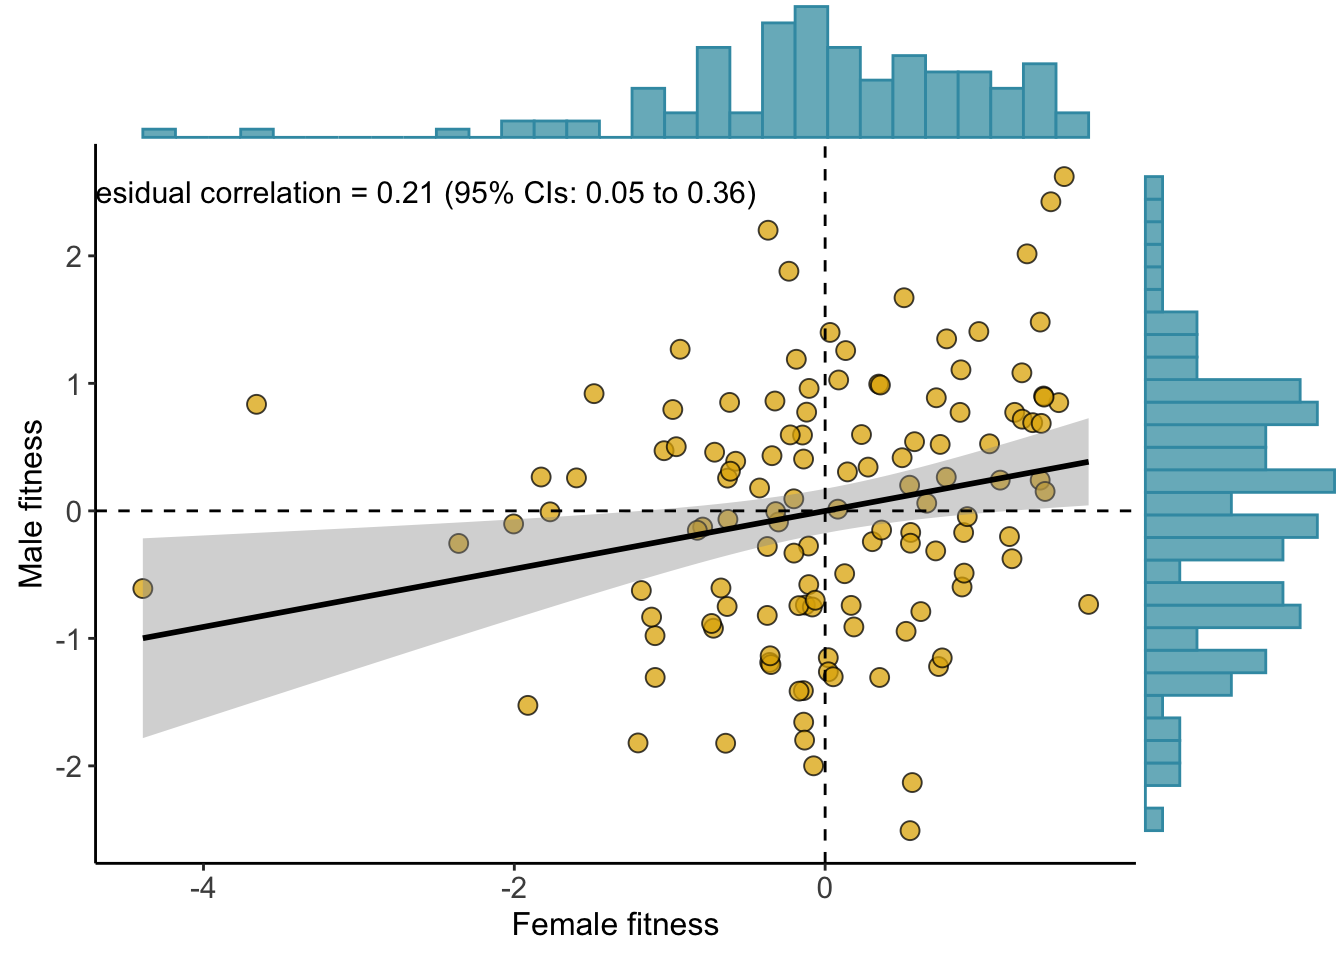
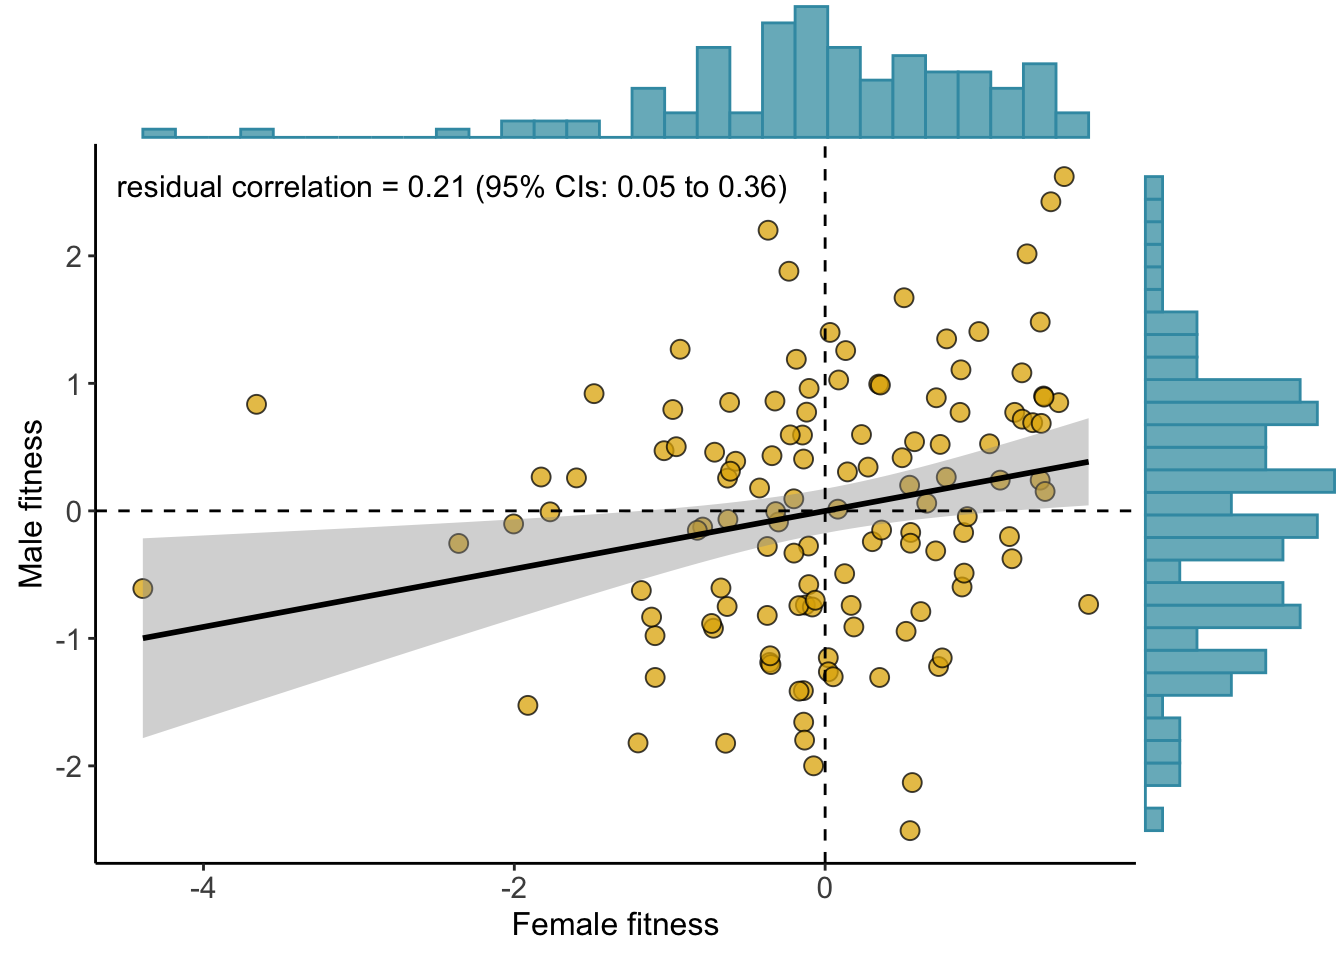
Build site.

Changed region(s): [[0.0625, 0.1875, 0.5938, 0.2188]]

diff --git a/docs/Main_analysis.html b/docs/Main_analysis.html
@@ -487,16 +487,16 @@ This reproducible <a href="http://rmarkdown.rstudio.com">R Markdown</a> analysis
 <div class="panel panel-default">
 <div class="panel-heading">
 <p class="panel-title">
-<a data-toggle="collapse" data-parent="#workflowr-checks" href="#strongRepositoryversionstrongahrefhttpsgithubcomtomkeaneyDGRPsexualconflicttree6aad8a86f4107b143e2e07bb036e5064adeca7cctargetblank6aad8a8a"> <span class="glyphicon glyphicon-ok text-success" aria-hidden="true"></span> <strong>Repository version:</strong> <a href="https://github.com/tomkeaney/DGRP_sexual_conflict/tree/6aad8a86f4107b143e2e07bb036e5064adeca7cc" target="_blank">6aad8a8</a> </a>
+<a data-toggle="collapse" data-parent="#workflowr-checks" href="#strongRepositoryversionstrongahrefhttpsgithubcomtomkeaneyDGRPsexualconflicttreee404cf9f54cc05b642050a7b0bc0070a6e55f8bbtargetblanke404cf9a"> <span class="glyphicon glyphicon-ok text-success" aria-hidden="true"></span> <strong>Repository version:</strong> <a href="https://github.com/tomkeaney/DGRP_sexual_conflict/tree/e404cf9f54cc05b642050a7b0bc0070a6e55f8bb" target="_blank">e404cf9</a> </a>
 </p>
 </div>
[2 lines of base64/hex data omitted]
 <div class="panel-body">
 <p>
 Great! You are using Git for version control. Tracking code development and connecting the code version to the results is critical for reproducibility.
 </p>
 <p>
-The results in this page were generated with repository version <a href="https://github.com/tomkeaney/DGRP_sexual_conflict/tree/6aad8a86f4107b143e2e07bb036e5064adeca7cc" target="_blank">6aad8a8</a>. See the <em>Past versions</em> tab to see a history of the changes made to the R Markdown and HTML files.
+The results in this page were generated with repository version <a href="https://github.com/tomkeaney/DGRP_sexual_conflict/tree/e404cf9f54cc05b642050a7b0bc0070a6e55f8bb" target="_blank">e404cf9</a>. See the <em>Past versions</em> tab to see a history of the changes made to the R Markdown and HTML files.
 </p>
 <p>
 Note that you need to be careful to ensure that all relevant files for the analysis have been committed to Git prior to generating the results (you can use <code>wflow_publish</code> or <code>wflow_git_commit</code>). workflowr only checks the R Markdown file, but you know if there are other scripts or data files that it depends on. Below is the status of the Git repository when the results were generated:
@@ -552,6 +552,40 @@ Message
 </tr>
 </thead>
 <tbody>
+<tr>
+<td>
+Rmd
+</td>
+<td>
+<a href="https://github.com/tomkeaney/DGRP_sexual_conflict/blob/e404cf9f54cc05b642050a7b0bc0070a6e55f8bb/analysis/Main_analysis.Rmd" target="_blank">e404cf9</a>
+</td>
+<td>
+tkeaney
+</td>
+<td>
+2021-07-23
+</td>
+<td>
+progression on selection calculations
+</td>
+</tr>
+<tr>
+<td>
+html
+</td>
+<td>
+<a href="https://rawcdn.githack.com/tomkeaney/DGRP_sexual_conflict/32f107fb9019fd1c55e06e4826fa11fed5dfc221/docs/Main_analysis.html" target="_blank">32f107f</a>
+</td>
+<td>
+tkeaney
+</td>
+<td>
+2021-07-23
+</td>
+<td>
+Build site.
+</td>
+</tr>
 <tr>
 <td>
 Rmd
@@ -876,7 +910,7 @@ rfm_fitness_plot &lt;-
   labs(x = &quot;Female fitness&quot;, y = &quot;Male fitness&quot;) +
   annotate(
     &quot;text&quot;, label = &quot;residual correlation = 0.21 (95% CIs: 0.05 to 0.36)&quot;,
-    x = -2.6, y = 2.5, size = 4, colour = &quot;black&quot;
+    x = -2.4, y = 2.55, size = 4, colour = &quot;black&quot;
   )
 
 ggMarginal(rfm_fitness_plot,
@@ -909,6 +943,17 @@ Date
 </tr>
 </thead>
 <tbody>
+<tr>
+<td>
+<a href="https://github.com/tomkeaney/DGRP_sexual_conflict/blob/32f107fb9019fd1c55e06e4826fa11fed5dfc221/docs/figure/Main_analysis.Rmd/unnamed-chunk-3-1.png" target="_blank">32f107f</a>
+</td>
+<td>
+tkeaney
+</td>
+<td>
+2021-07-23
+</td>
+</tr>
 <tr>
 <td>
 <a href="https://github.com/tomkeaney/DGRP_sexual_conflict/blob/11a83906f387d1ecbb39fc5ab60f5830bdac2d8f/docs/figure/Main_analysis.Rmd/unnamed-chunk-3-1.png" target="_blank">11a8390</a>
@@ -1035,6 +1080,43 @@ forest_plot &lt;-
 
 forest_plot</code></pre>
 <p><img src="figure/Main_analysis.Rmd/unnamed-chunk-4-1.png" width="864" style="display: block; margin: auto;" /></p>
+<p>
+<button type="button" class="btn btn-default btn-xs btn-workflowr btn-workflowr-fig" data-toggle="collapse" data-target="#fig-unnamed-chunk-4-1">
+Past versions of unnamed-chunk-4-1.png
+</button>
+</p>
+<div id="fig-unnamed-chunk-4-1" class="collapse">
+<div class="table-responsive">
+<table class="table table-condensed table-hover">
+<thead>
+<tr>
+<th>
+Version
+</th>
+<th>
+Author
+</th>
+<th>
+Date
+</th>
+</tr>
+</thead>
+<tbody>
+<tr>
+<td>
+<a href="https://github.com/tomkeaney/DGRP_sexual_conflict/blob/32f107fb9019fd1c55e06e4826fa11fed5dfc221/docs/figure/Main_analysis.Rmd/unnamed-chunk-4-1.png" target="_blank">32f107f</a>
+</td>
+<td>
+tkeaney
+</td>
+<td>
+2021-07-23
+</td>
+</tr>
+</tbody>
+</table>
+</div>
+</div>
 <p><strong>Figure X</strong>: The intersex additive genetic correlation for traits that have been measured in both sexes in &gt; 80 DGRP lines. A value of 0 indicates that there is no intersex genetic correlation, while a value of 1 means that additive genetic effects in one sex affect the other one identically. Data are means (depicted as 5% uncertainty intervals) with 66% and 95% uncertainty intervals.</p>
 <p><span class="math inline">\(~\)</span></p>
 <p>This figure is cluttered, mainly because there are so many microbiome traits. Below I attempt to visualise the data without these microbiome traits. This code is also useful because we can tag each trait by its guild.</p>
@@ -1372,6 +1454,17 @@ Date
 <tbody>
 <tr>
 <td>
+<a href="https://github.com/tomkeaney/DGRP_sexual_conflict/blob/32f107fb9019fd1c55e06e4826fa11fed5dfc221/docs/figure/Main_analysis.Rmd/unnamed-chunk-7-1.png" target="_blank">32f107f</a>
+</td>
+<td>
+tkeaney
+</td>
+<td>
+2021-07-23
+</td>
+</tr>
+<tr>
+<td>
 <a href="https://github.com/tomkeaney/DGRP_sexual_conflict/blob/11a83906f387d1ecbb39fc5ab60f5830bdac2d8f/docs/figure/Main_analysis.Rmd/unnamed-chunk-7-1.png" target="_blank">11a8390</a>
 </td>
 <td>
@@ -1454,6 +1547,43 @@ Selection_index_forest_plot &lt;-
 
 Selection_index_forest_plot</code></pre>
 <p><img src="figure/Main_analysis.Rmd/unnamed-chunk-8-1.png" width="576" style="display: block; margin: auto;" /></p>
+<p>
+<button type="button" class="btn btn-default btn-xs btn-workflowr btn-workflowr-fig" data-toggle="collapse" data-target="#fig-unnamed-chunk-8-1">
+Past versions of unnamed-chunk-8-1.png
+</button>
+</p>
+<div id="fig-unnamed-chunk-8-1" class="collapse">
+<div class="table-responsive">
+<table class="table table-condensed table-hover">
+<thead>
+<tr>
+<th>
+Version
+</th>
+<th>
+Author
+</th>
+<th>
+Date
+</th>
+</tr>
+</thead>
+<tbody>
+<tr>
+<td>
+<a href="https://github.com/tomkeaney/DGRP_sexual_conflict/blob/32f107fb9019fd1c55e06e4826fa11fed5dfc221/docs/figure/Main_analysis.Rmd/unnamed-chunk-8-1.png" target="_blank">32f107f</a>
+</td>
+<td>
+tkeaney
+</td>
+<td>
+2021-07-23
+</td>
+</tr>
+</tbody>
+</table>
+</div>
+</div>
 <pre class="r"><code># Here&#39;s a table showing the correlations
 
 S_complete %&gt;% 
@@ -1625,6 +1755,43 @@ early.female.20 &lt;-
   (early.female.11 | early.female.12 | early.female.13| early.female.14| early.female.15) /
   (early.female.16 | early.female.17 | early.female.18 | early.female.19 | early.female.20)</code></pre>
 <p><img src="figure/Main_analysis.Rmd/unnamed-chunk-12-1.png" width="1440" style="display: block; margin: auto;" /></p>
+<p>
+<button type="button" class="btn btn-default btn-xs btn-workflowr btn-workflowr-fig" data-toggle="collapse" data-target="#fig-unnamed-chunk-12-1">
+Past versions of unnamed-chunk-12-1.png
+</button>
+</p>
+<div id="fig-unnamed-chunk-12-1" class="collapse">
+<div class="table-responsive">
+<table class="table table-condensed table-hover">
+<thead>
+<tr>
+<th>
+Version
+</th>
+<th>
+Author
+</th>
+<th>
+Date
+</th>
+</tr>
+</thead>
+<tbody>
+<tr>
+<td>
+<a href="https://github.com/tomkeaney/DGRP_sexual_conflict/blob/32f107fb9019fd1c55e06e4826fa11fed5dfc221/docs/figure/Main_analysis.Rmd/unnamed-chunk-12-1.png" target="_blank">32f107f</a>
+</td>
+<td>
+tkeaney
+</td>
+<td>
+2021-07-23
+</td>
+</tr>
+</tbody>
+</table>
+</div>
+</div>
 <p><strong>Figure 2</strong>: The 10 phenotypes with the strongest positive (orange points) and negative (blue points) selection coefficients in females. All traits are standardised to have a mean = 0 and SD = 1.</p>
 <p><span class="math inline">\(~\)</span></p>
 </div>
@@ -1740,6 +1907,43 @@ young.male.20 &lt;-
   (young.male.11 | young.male.12 | young.male.13 | young.male.14 | young.male.15) /
   (young.male.16 | young.male.17 | young.male.18 | young.male.19 | young.male.20)</code></pre>
 <p><img src="figure/Main_analysis.Rmd/unnamed-chunk-13-1.png" width="1440" style="display: block; margin: auto;" /></p>
+<p>
+<button type="button" class="btn btn-default btn-xs btn-workflowr btn-workflowr-fig" data-toggle="collapse" data-target="#fig-unnamed-chunk-13-1">
+Past versions of unnamed-chunk-13-1.png
+</button>
+</p>
+<div id="fig-unnamed-chunk-13-1" class="collapse">
+<div class="table-responsive">
+<table class="table table-condensed table-hover">
+<thead>
+<tr>
+<th>
+Version
+</th>
+<th>
+Author
+</th>
+<th>
+Date
+</th>
+</tr>
+</thead>
+<tbody>
+<tr>
+<td>
+<a href="https://github.com/tomkeaney/DGRP_sexual_conflict/blob/32f107fb9019fd1c55e06e4826fa11fed5dfc221/docs/figure/Main_analysis.Rmd/unnamed-chunk-13-1.png" target="_blank">32f107f</a>
+</td>
+<td>
+tkeaney
+</td>
+<td>
+2021-07-23
+</td>
+</tr>
+</tbody>
+</table>
+</div>
+</div>
 <p><strong>Figure 3</strong>: The 10 phenotypes with the strongest positive (orange points) and negative (blue points) selection coefficients in males. All phenotypes are standardised to have a mean = 0 and SD = 1.</p>
 <p><span class="math inline">\(~\)</span></p>
 <br>
